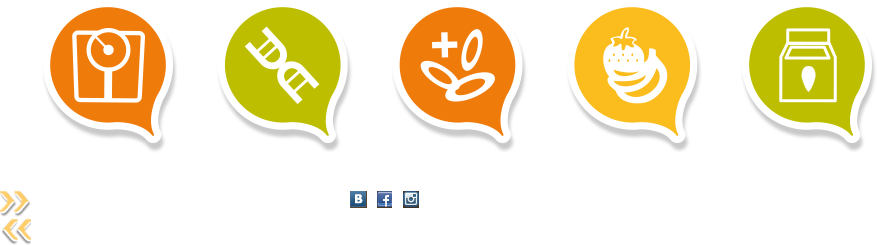
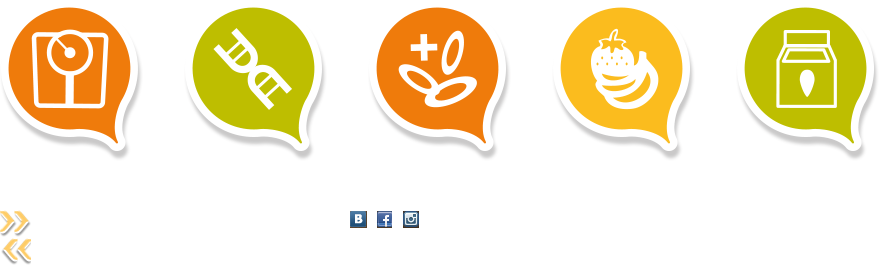
Правки главной страницы

diff --git a/index.html b/index.html
@@ -79,26 +79,11 @@
                     </div>
                 </div>
 
-                <div class="block-content block-desc">
-                    <div class="l">
-                        <p>Компания GingerBrandMan является обладателем мастер-франшизы бренда Tutti Frutti Frozen Yogurt на территории России, переданной нам компанией Wellspring Inc. Компания-учредитель бренда Tutti Frutti верит, что выбор продуктов питания напрямую влияет на здоровье и благополучие людей и планеты в целом и мы разделяем эту точку зрения.</p>
-                        <p>Wellspring Inc. занимается производством и международными оптовыми поставками ингредиентов и оборудования для приготовления йогурт-мороженого. Компания предоставляет широкий спектр продукции, включая смеси для йогурт-мороженого, смеси без содержания сахара, базовые смеси для смузи, более 20 натуральных вкусовых основ для йогурта, брендированные ложки и стаканчики  и многое другое.</p>
-                    </div>
-                    <div class="r">
-                        <p>Wellspring Inc. обеспечивает Tutti Frutti передовыми машинами для изготовления йогурт-мороженого на оптовой основе. На данный момент у нас более 80 вкусов йогуртов, и чтобы выгодно выделяться на фоне конкурентов, Tutti Frutti непрерывно создает новые уникальные вкусовые сочетания.</p>
-                        <p>Существует несколько причин, обеспечивающих ошеломительный успех йогуртов Tutti Frutti по всему миру. Во-первых, по вкусу и качеству нашим йогуртам просто нет равных. Более того, наш йогурт-мороженое приносит заметную пользу для здоровья. Благодаря популярной модели обслуживания (self-serve), кафе Tutti Frutti способны функционировать эффективно, без лишних усилий и с минимальными накладными расходами.</p>
-                    </div>
-                </div>
-
                 <div class="block-content block-map">
-                    <div class="title-content">
-                        <h2>Карта Tutti Frutti Frozen Yogurt</h2>
-                    </div>
-
                     <div class="info-content">
                         <img src="img/map.gif" alt="map" class="map-img">
 
-                        <div class="title-map">Всего свыше 750 кафе в 40 странах мира</div>
+                        <div class="title-map">Карта Tutti Frutti Frozen Yogurt</div>
                         <div class="country-list scroll-list">
                             <ul>
                                 <li>Afghanistan</li>
@@ -154,25 +139,25 @@
                             </ul>
                         </div>
                     </div>
+                </div>
 
-                    <div class="info-content-two">
-                        <div class="title-map">Кафе Tutti Frutti Frozen Yogurt на территории России</div>
+                <div class="block-content block-desc">
+                    <div class="title-content">
+                        <h2>720 кафе, более чем в 40 странах</h2>
+                    </div>
 
-                        <div class="shop-list">
-                            <ul>
-                                <li><strong>ТРЦ «РИО» - Дмитровка</strong>Дмитровское шоссе, 163А<br>2 этаж, рядом с кинотеатром</li>
-                                <li><strong>ТРЦ «РИО» - Ленинский</strong>Ленинский проспект, вл. 109<br>1 этаж, Атриум</li>
-                                <li><strong>ТРЦ «Калейдоскоп»</strong> Сходненская, 56<br>3 этаж, рядом с кинотеатром</li>
-                                <li><strong>ТРЦ «Отрада»</strong> 7-ой км. Пятницкого шоссе,<br>1 этаж <strong class="soon">ФРАНШИЗА</strong></li>
-                                <li><strong>Башня «Эволюция»</strong> Москва-Сити, выход из метро<br>«Выставочная» <strong class="soon">СКОРО ОТКРЫТИЕ!</strong></li>
-                            </ul>
-                        </div>
+                    <div class="l">
+                        <p>Сеть Tutti Frutti Frozen Yogurt основана в 2008 году в США, в штате Калифорния и развивается с головокружительной скоростью. Такой успех во всем мире объясняется не только высочайшим качеством и потрясающим вкусом нашего йогурт-мороженого, но и высокой рентабельностью бизнеса, а также удачным выбором модели обслуживания self-serve, которая позволяет кафе Tutti Frutti функционировать эффективно, без лишних усилий и с минимальными накладными расходами.</p>
+                        <p>Мы знаем, как непросто бывает начать свое дело – с первых дней приходится сталкиваться с большим количеством вопросов разной степени сложности. Бизнес, открытый по франшизе Tutti Frutti Frozen Yogurt, дает ответы и готовые решения, и предоставляет возможность работать с ярким,  стабильным, всемирно известным брендом. </p>
+                    </div>
+                    <div class="r">
+                        <p>В России компания GingerBrandMan выстроила собственную инфраструктуру: наладила импортные поставки фирменной продукции, создала сеть российских поставщиков, организовала квалифицированную всестороннюю поддержку партнеров, разработала собственные маркетинговые стратегии, систему контроля и многое другое. Поэтому вместе с франшизой Tutti Frutti Frozen Yogurt  вы получаете гораздо больше, чем просто  право пользоваться успешным брендом и закупать ингредиенты премиум-класса. Команда GingerBrandMan делает все от нее зависящее, чтобы помочь  своим франчайзи создать успешный бизнес  вместе с Tutti Frutti.</p>
                     </div>
                 </div>
 
                 <div class="block-content block-howto">
                     <div class="title-content">
-                        <h2>Self-Serve</h2>
+                        <h2>Self-Serve*</h2>
                         <h3 class="note">Как это работает:</h3>
                     </div>
 
@@ -184,6 +169,8 @@
                                 <li><a href="img/examples/pic3.jpg" data-lightbox="howto"><img src="img/examples/pic3.jpg" alt="" class="small-preview"></a></li>
                                 <li><a href="img/examples/pic4.jpg" data-lightbox="howto"><img src="img/examples/pic4.jpg" alt="" class="small-preview"></a></li>
                             </ul>
+
+                            <div class="note">*cамообслуживание</div>
                         </div>
                         <div class="l">
                             <ul>
@@ -193,6 +180,18 @@
                                 <li><i class="count-i four-count"></i> Взвесь и оплати</li>
                             </ul>
                         </div>
+                    </div>
+
+                    <div class="title-content title-content-two">
+                        <h3 class="note">Приемущества модели self-serve:</h3>
+                    </div>
+
+                    <div class="info-content info-content-two">
+                        <ul>
+                            <li><span>•</span> Выручка выше на 20-25%</li>
+                            <li><span>•</span> ФОТ ниже на 15-20%</li>
+                            <li><span>•</span> Высокий средний чек</li>
+                        </ul>
                     </div>
                 </div>
 
@@ -214,26 +213,35 @@
                     <div class="info-content">
                         <div class="l">
                             <div class="block-info">
-                                <h3 class="title">Йогурт-мороженое</h3>
-                                <p>Йогурт-мороженое – это здоровая альтернатива простому мороженому или другим замороженным десертам. Не секрет, что йогурт – это питательный молочный продукт, обогащенный полезными кисломолочными культурами. В нем содержится белок, кальций, рибофлавин (витамин В2), витамины В6 и В12.<br>
-                                По количеству полезных веществ молоко с йогуртом просто не может сравниться. Даже люди с непереносимостью лактозы могут побаловать себя замороженным йогуртом. Люди издревна наслаждаются йогуртом – уже более 4000 лет, а йогурт-мороженое появился сравнительно недавно – в 1970-е. Теперь у всех есть уникальная возможность попробовать огромное количество вкусов йогурт-мороженого.</p>
+                                <p><strong>Йогурт-мороженое</strong> &mdash; это здоровая альтернатива мороженому и другим замороженным десертам, он появился сравнительно недавно – в 1970-е и очень быстро стал популярен во всем мире. Tutti Frutti Frozen Yogurt – это питательный молочный продукт, обогащенный полезными кисломолочными культурами. В нем содержится белок, кальций и витамины. Жирность менее 1%. Калорийность: 89-125 ккалл, в зависимости от вкуса Tutti Frutti.</p>
                             </div>
                             <div class="block-info">
-                                <h3 class="title">Живые и активные культуры</h3>
-                                <p>Пробиотики – это полезные бактерии, которые неизменно входят в состав йогурта. Они помогают понизить уровень холестерина, кровяное давление и уменьшают риск рака толстой кишки. Пробиотики не только помогают справиться с непереносимостью лактозы, но и содействуют усвоению полезных минералов. В целом, пробиотики укрепляют иммунную систему и предотвращают рост опасных бактерий.</p>
+                                <p><strong>Пробиотики</strong> &mdash; это полезные бактерии, которые неизменно входят в состав йогурта. Они помогают понизить уровень холестерина, кровяное давление и уменьшают риск рака толстой кишки. Пробиотики не только помогают справиться с непереносимостью лактозы, но и содействуют усвоению полезных минералов. В целом, пробиотики укрепляют иммунную систему и предотвращают рост опасных бактерий.</p>
                             </div>
                         </div>
                         <div class="r">
                             <div class="block-info">
-                                <h3 class="title">Фрукты</h3>
-                                <p>Фрукты незаменимы для поддержания здорового образа жизни. Фрукты богаты клетчаткой и витамином С. Регулярное потребление фруктов способно снизить риск возникновения рака, сердечно-сосудистых заболеваний, инсульта, болезни Альцгеймера и катаракты. Фрукты содержат мало калорий и являются прекрасной альтернативой вредным перекусам. Они также помогают замедлить процесс старения.</p>
+                                <p><strong>Фрукты</strong> незаменимы для поддержания здорового образа жизни. Фрукты богаты клетчаткой и витамином С. Регулярное потребление фруктов способно снизить риск возникновения рака, сердечно-сосудистых заболеваний, инсульта, болезни Альцгеймера и катаракты. Фрукты содержат мало калорий и являются прекрасной альтернативой вредным перекусам. Они также помогают замедлить процесс старения.</p>
                             </div>
                             <div class="block-info">
-                                <h3 class="title">Витамин C</h3>
-                                <p>Витамин С, или аскорбиновая кислота, в изобилии присутствует во фруктах. Это сильнейший антиоксидант, защищающий организм от окислительного стресса и участвующий во многих ферментативных реакциях. Витамин С также необходим для выработки коллагена. Недостаток витамина С приводит к цинге, в то время как достаточное количество витамина С в организме – признак крепкого здоровья. Более того, витамин С поддерживает иммунную систему, способствуя обновлению кожи и укреплению суставов.  Он приносит огромную пользу организму и необходим каждому из нас.</p>
+                                <p><strong>Витамин С</strong> &mdash; это сильнейший антиоксидант, защищающий организм от окислительного стресса и участвующий во многих ферментативных реакциях. Витамин С также необходим для выработки коллагена. Более того, витамин С поддерживает иммунную систему, способствуя обновлению кожи и укреплению суставов.  Он приносит огромную пользу организму и необходим каждому из нас.</p>
                             </div>
                         </div>
                     </div>
+                </div>
+
+                <div class="block-content block-steps">
+                    <div class="title-content">
+                        <h2>12 шагов к открытию своего кафе</h2>
+                    </div>
+
+                    <div class="info-content">
+                        <img src="img/steps-pic.gif" alt="12 Шагов">
+                    </div>
+                </div>
+
+                <div class="block-content block-more">
+                    Узнай о нас больше на сайте <a href="tuttifruttirussia.com">tuttifruttirussia.com</a>
                 </div>
             </div>
         </div>

diff --git a/css/style.css b/css/style.css
@@ -59,16 +59,16 @@ h4 { font-size:15.99px; font-weight:600; margin-bottom:5px }
 #header .link .link-c:hover .link-click { background:#a48a7a }
 #header .link.active .link-c .link-click { background:#a48a7a }
 
-#header .link.link-one { top:60px; left:60px }
+#header .link.link-one { top:60px; left:70px }
 #header .link.link-one .link-c .line { height:42px }
 
-#header .link.link-two { top:60px; right:20px }
+#header .link.link-two { top:60px; right:30px }
 #header .link.link-two .link-c .line { height:42px }
 
-#header .link.link-three { top:100px; right:160px }
+#header .link.link-three { top:100px; right:190px }
 #header .link.link-three .link-c .line { height:82px }
 
-#header .link.link-four { top:100px; left:160px }
+#header .link.link-four { top:100px; left:166px }
 #header .link.link-four .link-c .line { height:82px }
 
 #header .link.active { top:166px;}
@@ -81,9 +81,9 @@ h4 { font-size:15.99px; font-weight:600; margin-bottom:5px }
 /* Content */
 #content .big-text { color:#fff; padding:30px 0 0 60px; position:relative; z-index:21 }
 
-#content .block-content { padding:0 0 20px; margin:0 60px 30px; overflow:hidden; background:url(../img/dotted.png) repeat-x left bottom; min-height:100px }
+#content .block-content { padding:0 0 20px; position:relative; margin:0 60px 30px; overflow:hidden; background:url(../img/dotted.png) repeat-x left bottom; min-height:100px }
 #content .block-content .title-content { color:#fff; margin-bottom:20px }
-#content .block-content .title-content h2 { font-size:54px; line-height:75px; }
+#content .block-content .title-content h2 { font-size:52px; line-height:75px; }
 #content .block-content .title-content .note { margin-top:10px }
 
 
@@ -92,63 +92,67 @@ h4 { font-size:15.99px; font-weight:600; margin-bottom:5px }
 #content .block-slider #slides { border-radius:3px; border:2px solid #fff; box-shadow:3px 3px 6px rgba(0,0,0,0.2) }
 
 #content .block-slider .slidesjs-navigation { display:block; background:url(../img/gbm-icons.png) no-repeat; opacity:0.5; text-indent:-99999px; width:31px; height:28px; z-index:2; position:absolute; top:180px }
-#content .block-slider .slidesjs-navigation.slidesjs-previous { background-position:0 -217px; left:-20px }
+#content .block-slider .slidesjs-navigation.slidesjs-previous { background-position:0 -237px; left:-20px }
 #content .block-slider .slidesjs-navigation.slidesjs-previous:hover { opacity:1 }
-#content .block-slider .slidesjs-navigation.slidesjs-next { background-position:0 -189px; right:-20px }
+#content .block-slider .slidesjs-navigation.slidesjs-next { background-position:0 -209px; right:-20px }
 #content .block-slider .slidesjs-navigation.slidesjs-next:hover { opacity:1 }
 
 #content .block-slider .slidesjs-pagination { display:none }
+
+#content .block-content.block-map { background:none; margin-bottom:0; padding-bottom:0 }
+#content .block-content.block-map .info-content { position:relative; height:460px; overflow:hidden; clear:both; }
+#content .block-content.block-map .info-content .map-img { position:absolute; right:0; top:36px }
+#content .block-content.block-map .title-map { color:#fff; font-size:16px; line-height:21px; margin-bottom:10px }
+#content .block-content.block-map .info-content .country-list { height:390px; width:140px; position:relative; z-index:2; outline: none !important; }
+#content .block-content.block-map .info-content .country-list ul li { line-height:14px }
+#content .block-content.block-map .info-content .country-list ul li a { color:#58595b }
 
 
 #content .block-content.block-desc .l { float:left; width:420px; margin-right:40px }
 #content .block-content.block-desc p { padding-bottom:15px; line-height:14px }
 
 
-#content .block-content.block-map {  }
-#content .block-content.block-map .info-content { position:relative; height:460px; overflow:hidden; clear:both; }
-#content .block-content.block-map .info-content .map-img { position:absolute; right:0; top:36px }
-#content .block-content.block-map .title-map { color:#fff; font-size:16px; width:180px; line-height:21px; margin-bottom:10px }
-#content .block-content.block-map .info-content .country-list { height:390px; width:140px; position:relative; z-index:2; outline: none !important; }
-#content .block-content.block-map .info-content .country-list ul li { line-height:14px }
-#content .block-content.block-map .info-content .country-list ul li a { color:#58595b }
-
-#content .block-content.block-map .info-content-two { overflow:hidden; padding-top:15px }
-#content .block-content.block-map .info-content-two .title-map { width:inherit; margin-bottom:20px }
-#content .block-content.block-map .info-content-two .shop-list { margin:0 -30px -20px 0 }
-#content .block-content.block-map .info-content-two .shop-list li { display:inline-block; *display:inline; zoom:1; vertical-align:top; width:190px; margin:0 30px 20px 0; min-height:40px; }
-#content .block-content.block-map .info-content-two .shop-list li strong { display:block }
-#content .block-content.block-map .info-content-two .shop-list li strong.soon { display:block; text-transform: uppercase; margin-top:4px }
-#content .block-content.block-map .info-content-two .shop-list li.shop-soon { min-height:60px }
-
-
-#content .block-content.block-howto {  }
-#content .block-content.block-howto .l { float:left; width:320px }
-#content .block-content.block-howto .l ul li { padding:16px 0 0 80px; color:#58595b; line-height:26px; font-size:22px; position:relative; min-height:62px; margin-bottom:35px }
+#content .block-content.block-howto { padding-top:20px }
+#content .block-content.block-howto .title-content { position:absolute; left:0; top:0 }
+#content .block-content.block-howto .l { float:left; width:320px; padding-top:100px }
+#content .block-content.block-howto .l ul li { padding:16px 0 0 80px; color:#58595b; line-height:26px; font-size:22px; position:relative; min-height:62px }
 #content .block-content.block-howto .l ul li .count-i { position:absolute; left:0; top:2px; background:url(../img/gbm-icons.png) no-repeat; display:block; width:52px; height:64px }
-#content .block-content.block-howto .l ul li .count-i.one-count { background-position:-64px -179px }
-#content .block-content.block-howto .l ul li .count-i.two-count { background-position:-130px -179px }
-#content .block-content.block-howto .l ul li .count-i.three-count { background-position:-208px -179px }
-#content .block-content.block-howto .l ul li .count-i.four-count { background-position:-278px -179px }
-#content .block-content.block-howto .r { float:right; width:520px }
+#content .block-content.block-howto .l ul li .count-i.one-count { background-position:-64px -196px }
+#content .block-content.block-howto .l ul li .count-i.two-count { background-position:-130px -196px }
+#content .block-content.block-howto .l ul li .count-i.three-count { background-position:-208px -196px }
+#content .block-content.block-howto .l ul li .count-i.four-count { background-position:-278px -196px }
+#content .block-content.block-howto .r { float:right; width:520px; position:relative }
 #content .block-content.block-howto .r ul { margin-right:-22px }
 #content .block-content.block-howto .r ul li { position:relative; display:inline-block; *display:inline; zoom:1; vertical-align:top; margin:0 22px 12px 0 }
 #content .block-content.block-howto .r ul li .small-preview { border-radius:3px; border:2px solid #fff; box-shadow:3px 3px 6px rgba(0,0,0,0.2); width:240px; height:170px }
+#content .block-content.block-howto .r .note { position:absolute; bottom:-15px; right:40px }
 
-#content .block-content.block-useful { background:none; margin-bottom:0 }
-#content .block-content.block-useful .list-why { margin-bottom:40px }
+#content .block-content.block-howto .title-content-two { clear:both; padding-top:10px; position:inherit }
+#content .block-content.block-howto .info-content-two { padding-bottom:10px }
+#content .block-content.block-howto .info-content-two ul { margin-right:-70px; overflow:hidden }
+#content .block-content.block-howto .info-content-two ul li { display:inline-block; *display:inline; zoom:1; vertical-align:top; line-height:24px; font-size:20px; margin-right:70px }
+#content .block-content.block-howto .info-content-two ul li span { font-size:30px }
+
+#content .block-content.block-useful {  }
+#content .block-content.block-useful .list-why { margin-bottom:20px }
 #content .block-content.block-useful .list-why ul { margin-right:-25px }
 #content .block-content.block-useful .list-why ul li { display:inline-block; *display:inline; zoom:1; vertical-align:top; margin-right:25px; text-align:center }
-#content .block-content.block-useful .list-why ul li span { text-indent:-99999px; display:block; height:179px; width:135px; background:url(../img/gbm-icons.png) no-repeat }
-#content .block-content.block-useful .list-why ul li.one span { background-position:0 0; width:193px }
-#content .block-content.block-useful .list-why ul li.two span { background-position:-217px 0 }
-#content .block-content.block-useful .list-why ul li.three span { background-position:-378px 0; width:150px }
-#content .block-content.block-useful .list-why ul li.four span { background-position:-567px 0 }
-#content .block-content.block-useful .list-why ul li.five span { background-position:-742px 0 }
+#content .block-content.block-useful .list-why ul li span { text-indent:-99999px; display:block; height:190px; width:144px; background:url(../img/gbm-icons.png) no-repeat }
+#content .block-content.block-useful .list-why ul li.one span { background-position:0 0; width:170px }
+#content .block-content.block-useful .list-why ul li.two span { background-position:-182px 0 }
+#content .block-content.block-useful .list-why ul li.three span { background-position:-366px 0; width:150px }
+#content .block-content.block-useful .list-why ul li.four span { background-position:-550px 0 }
+#content .block-content.block-useful .list-why ul li.five span { background-position:-734px 0 }
 
 
-#content .block-content.block-useful .info-content .title { color:#fff; margin-bottom:20px }
 #content .block-content.block-useful .info-content .l { float:left; width:440px; margin-right:30px }
 #content .block-content.block-useful .info-content .block-info { margin-bottom:25px }
+
+#content .block-content.block-steps { background:none; margin-bottom:0 }
+
+#content .block-content.block-more { min-height:inherit; background:none; margin:0; padding:0; text-align:center; color:#fff; font-size:20px }
+#content .block-content.block-more a { color:#fff; text-decoration:underline }
+#content .block-content.block-more a:hover { text-decoration:none }
 
 
 
